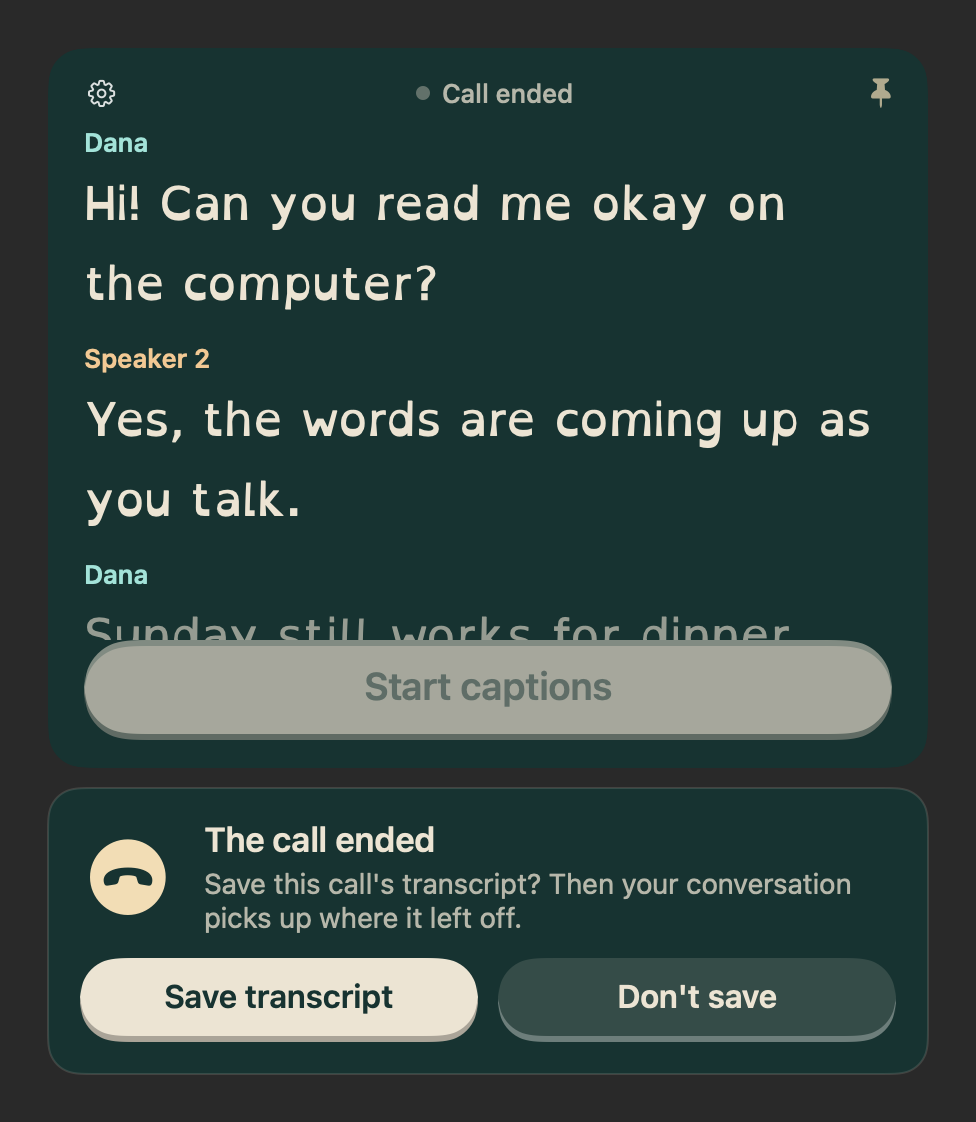
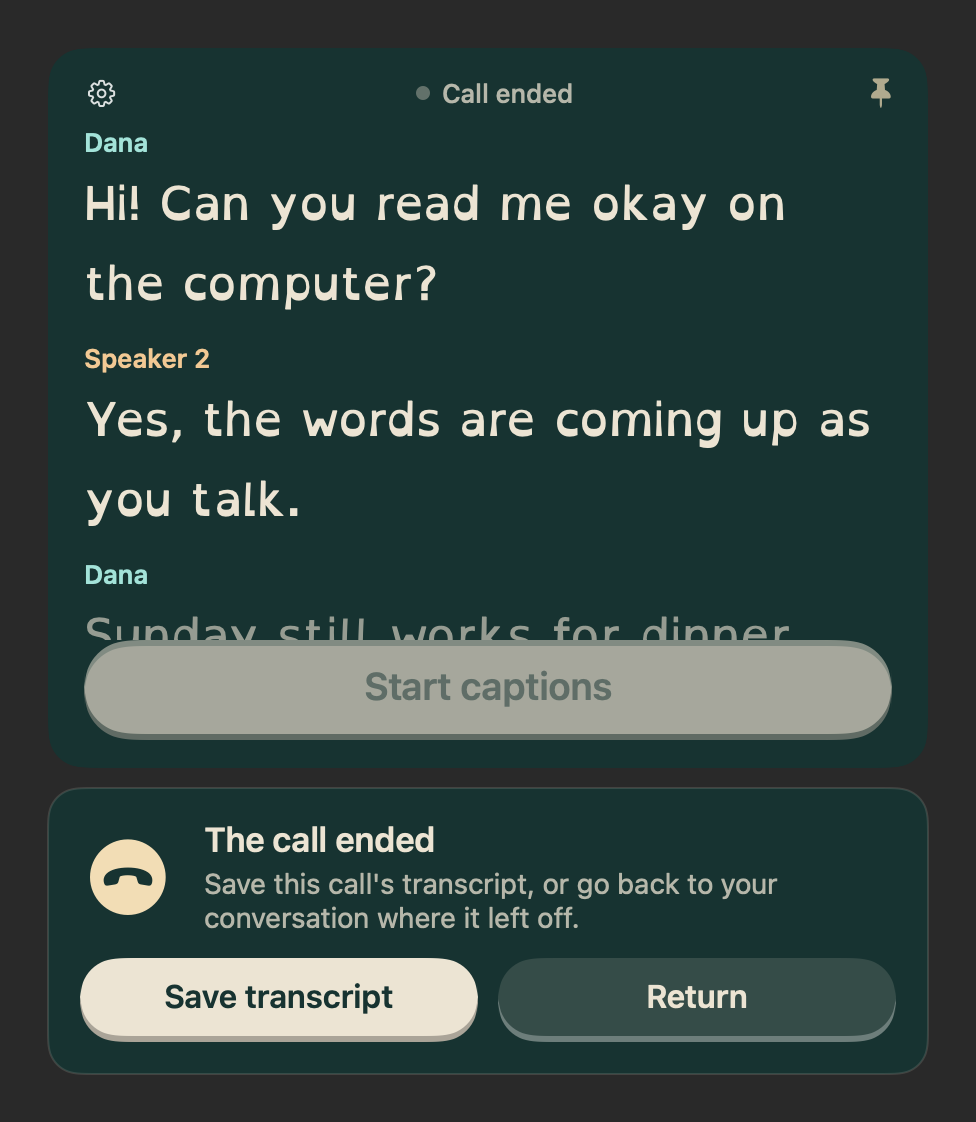
Owner's decisions: end of call is Save or Return, fading back to the conversation (#178)
Gil, 2026-10-28 ~11:50: room only until a call; Caption call starts a fresh
transcript; at the end, save it or return to the previous chat, which fades
back and picks up where it left off. The secondary button reads Return, the
event is returnToConversation, the pop-up crossfades between conversations
(0.6 s), and Start is disabled while the save question is up. Live run with
real room speech: the room's transcript comes back line for line after Return.
Merges #172's release script.

Refs #178

Claude-Session: https://claude.ai/code/session_013wtERcznEHZfj6JwiA5Wiu

Changed region(s): [[0.2152, 0.7799, 0.8607, 0.8422], [0.6148, 0.8734, 0.7992, 0.9046]]

diff --git a/Apps/Mac/Sources/CallFlow.swift b/Apps/Mac/Sources/CallFlow.swift
@@ -11,6 +11,8 @@ import SwiftUI
 @MainActor
 final class CallFlow: ObservableObject {
     @Published private(set) var arrival = CallArrival()
+    /// Changes whenever the window switches conversation (room -> call, call -> room), so the captions fade across.
+    @Published private(set) var conversationToken = 0
 
     static var isEnabled: Bool { UserDefaults.standard.object(forKey: "listenTo") == nil }
 
@@ -66,14 +68,19 @@ final class CallFlow: ObservableObject {
         return String(localized: "Captions show up here when someone speaks.")
     }
 
+    static let fade = Animation.easeInOut(duration: 0.6)
+
     private func perform(_ effect: CallArrival.Effect) async {
         switch effect {
         case .pauseRoom:
             await model.stopAndWait()
             pausedRoom = (model.stream, model.speakerNames)
         case .startCall:
-            model.stream = CaptionStream()
-            model.speakerNames = SpeakerNames()
+            withAnimation(Self.fade) {
+                model.stream = CaptionStream()
+                model.speakerNames = SpeakerNames()
+                conversationToken += 1
+            }
             callStartedAt = Date()
             model.listenOverride = .both
             NSLog("[calls] call engine starting")
@@ -97,8 +104,12 @@ final class CallFlow: ObservableObject {
     private func finishCall() {
         let room = pausedRoom
         pausedRoom = nil
-        model.stream = room?.stream ?? CaptionStream()
-        model.speakerNames = room?.names ?? SpeakerNames()
+        // The call view fades back to the conversation it interrupted (owner, 2026-10-28).
+        withAnimation(Self.fade) {
+            model.stream = room?.stream ?? CaptionStream()
+            model.speakerNames = room?.names ?? SpeakerNames()
+            conversationToken += 1
+        }
         model.listenOverride = .roomOnly
     }
 }
@@ -114,7 +125,7 @@ struct CallBannerSlot: View {
             case .ringing:
                 CallBannerView(kind: .ringing, style: style, onPrimary: { calls.send(.captionCall) }, onSecondary: { calls.send(.notNow) })
             case .ended:
-                CallBannerView(kind: .ended, style: style, onPrimary: { calls.send(.saveTranscript) }, onSecondary: { calls.send(.dontSave) })
+                CallBannerView(kind: .ended, style: style, onPrimary: { calls.send(.saveTranscript) }, onSecondary: { calls.send(.returnToConversation) })
             case nil:
                 if calls.arrival.step == .call && calls.hasPausedRoom { PausedConversationNote(style: style) }
             }
@@ -130,7 +141,7 @@ import os
 
 /// DEBUG only: drives a pretend call through the real app, so the whole flow can be run and captured without a phone.
 /// `-SealFakeCall 8,30` starts a call 8 s after launch and ends it at 30 s; `-SealFakeChoice caption|notnow` and
-/// `-SealFakeSave yes|no` answer the banners 2 s after they show; `-SealFakeShots <dir>` saves the live window at each
+/// `-SealFakeSave yes|no` (no: Return) answer the banners 2 s after they show; `-SealFakeShots <dir>` saves the live window at each
 /// step (no Screen Recording permission needed).
 extension CallFlow {
     static let log = Logger(subsystem: "com.gileskayo.captions", category: "calls")
@@ -141,7 +152,7 @@ extension CallFlow {
         let times = spec.split(separator: ",").compactMap { Double($0) }
         guard times.count == 2 else { return }
         let choice: CallArrival.Event = defaults.string(forKey: "SealFakeChoice") == "notnow" ? .notNow : .captionCall
-        let save: CallArrival.Event = defaults.string(forKey: "SealFakeSave") == "no" ? .dontSave : .saveTranscript
+        let save: CallArrival.Event = defaults.string(forKey: "SealFakeSave") == "no" ? .returnToConversation : .saveTranscript
         let shots = defaults.string(forKey: "SealFakeShots")
         let at = { (seconds: Double, work: @escaping @MainActor () -> Void) in
             DispatchQueue.main.asyncAfter(deadline: .now() + seconds) { MainActor.assumeIsolated { work() } }
@@ -155,6 +166,7 @@ extension CallFlow {
         at(times[1]) { self.send(.callEnded) }
         at(times[1] + 1.5) { shot("3-ended") }
         at(times[1] + 3) { self.send(save) }
+        at(times[1] + 3.5) { shot("3b-fading") }
         at(times[1] + 10) { shot("4-resumed") }
     }
 

diff --git a/Apps/Mac/Sources/CaptionMacApp.swift b/Apps/Mac/Sources/CaptionMacApp.swift
@@ -40,23 +40,27 @@ struct CallPopupWindow: View {
     var body: some View {
         let control = PrimaryControl.for(model.state)
         VStack(spacing: 0) {
-        CallPopupView(
-            lines: model.popupLines,
-            status: CallPopupView.Status(model.state, hasLines: !model.popupLines.isEmpty),
-            style: model.style,
-            buttonTitle: control.title,
-            buttonEnabled: control.isEnabled,
-            onPrimary: { control.action == .stop ? model.stop() : model.start() },
-            onPickLook: { preset in
-                model.style.background = preset.background
-                model.style.text = preset.text
-            },
-            pinned: $model.pinned,
-            statusWords: calls.statusWords(for: model.state),
-            emptyWords: calls.emptyWords(for: model.state)
-        )
-        .frame(minWidth: 360, minHeight: 300)
-        CallBannerSlot(calls: calls, style: model.style)   // #178: a call arriving mid-conversation
+            ZStack {
+                CallPopupView(
+                    lines: model.popupLines,
+                    status: CallPopupView.Status(model.state, hasLines: !model.popupLines.isEmpty),
+                    style: model.style,
+                    buttonTitle: control.title,
+                    buttonEnabled: control.isEnabled && calls.arrival.step != .ended,   // #178: answer the save question first
+                    onPrimary: { control.action == .stop ? model.stop() : model.start() },
+                    onPickLook: { preset in
+                        model.style.background = preset.background
+                        model.style.text = preset.text
+                    },
+                    pinned: $model.pinned,
+                    statusWords: calls.statusWords(for: model.state),
+                    emptyWords: calls.emptyWords(for: model.state)
+                )
+                .frame(minWidth: 360, minHeight: 300)
+                .id(calls.conversationToken)   // #178: room and call conversations fade across
+                .transition(.opacity)
+            }
+            CallBannerSlot(calls: calls, style: model.style)   // #178: a call arriving mid-conversation
         }
         .background(model.style.background.color)
         .background(WindowFinder(window: $window))

diff --git a/Packages/CaptionCore/Tests/CaptionCoreTests/CallArrivalTests.swift b/Packages/CaptionCore/Tests/CaptionCoreTests/CallArrivalTests.swift
@@ -48,8 +48,8 @@ final class CallArrivalTests: XCTestCase {
         XCTAssertEqual(effects.suffix(2), [.saveCall, .resumeRoom], "saved before the room's conversation comes back")
     }
 
-    func testDontSaveStillResumesTheRoom() {
-        let (flow, effects) = run([(.callStarted, true), (.captionCall, true), (.callEnded, true), (.dontSave, false)])
+    func testReturnWithoutSavingStillResumesTheRoom() {
+        let (flow, effects) = run([(.callStarted, true), (.captionCall, true), (.callEnded, true), (.returnToConversation, false)])
         XCTAssertEqual(flow.step, .room)
         XCTAssertEqual(effects.last, .resumeRoom)
         XCTAssertFalse(effects.contains(.saveCall))
@@ -97,7 +97,7 @@ final class CallArrivalTests: XCTestCase {
     }
 
     func testTwoCallsInARowEachGetTheirOwnTurn() {
-        let one: [(CallArrival.Event, Bool)] = [(.callStarted, true), (.captionCall, true), (.callEnded, true), (.dontSave, false)]
+        let one: [(CallArrival.Event, Bool)] = [(.callStarted, true), (.captionCall, true), (.callEnded, true), (.returnToConversation, false)]
         let (flow, effects) = run(one + [(.callStarted, true)])
         XCTAssertEqual(flow.step, .ringing)
         XCTAssertEqual(effects, [.pauseRoom, .startCall, .stopCall, .resumeRoom])

diff --git a/Apps/Mac/Sources/CallBannerView.swift b/Apps/Mac/Sources/CallBannerView.swift
@@ -8,7 +8,7 @@ struct CallBannerView: View {
     enum Kind: Equatable {
         /// A call is ringing or has just started: caption it instead of the room?
         case ringing
-        /// The call ended: keep its transcript with the saved conversations?
+        /// The call ended: save its transcript, or return to the conversation (owner, 2026-10-28).
         case ended
     }
 
@@ -69,7 +69,7 @@ struct CallBannerView: View {
     private var detail: String {
         switch kind {
         case .ringing: String(localized: "Pause this conversation and caption the call?")
-        case .ended: String(localized: "Save this call's transcript? Then your conversation picks up where it left off.")
+        case .ended: String(localized: "Save this call's transcript, or go back to your conversation where it left off.")
         }
     }
 
@@ -83,7 +83,7 @@ struct CallBannerView: View {
     private var secondaryTitle: String {
         switch kind {
         case .ringing: String(localized: "Not now")
-        case .ended: String(localized: "Don't save")
+        case .ended: String(localized: "Return")
         }
     }
 

diff --git a/Packages/CaptionCore/Sources/CaptionCore/CallArrival.swift b/Packages/CaptionCore/Sources/CaptionCore/CallArrival.swift
@@ -25,7 +25,7 @@ public struct CallArrival: Equatable, Sendable {
     public enum Event: Equatable, Sendable {
         case callStarted, callEnded
         case captionCall, notNow
-        case saveTranscript, dontSave
+        case saveTranscript, returnToConversation
     }
 
     public enum Effect: Equatable, Sendable {
@@ -80,7 +80,7 @@ public struct CallArrival: Equatable, Sendable {
         case (.call, .callEnded):
             step = .ended
             return [.stopCall]
-        case (.ended, .saveTranscript), (.ended, .dontSave):
+        case (.ended, .saveTranscript), (.ended, .returnToConversation):
             step = .room
             var effects: [Effect] = event == .saveTranscript ? [.saveCall] : []
             if resumeRoomAfter { effects.append(.resumeRoom) }
